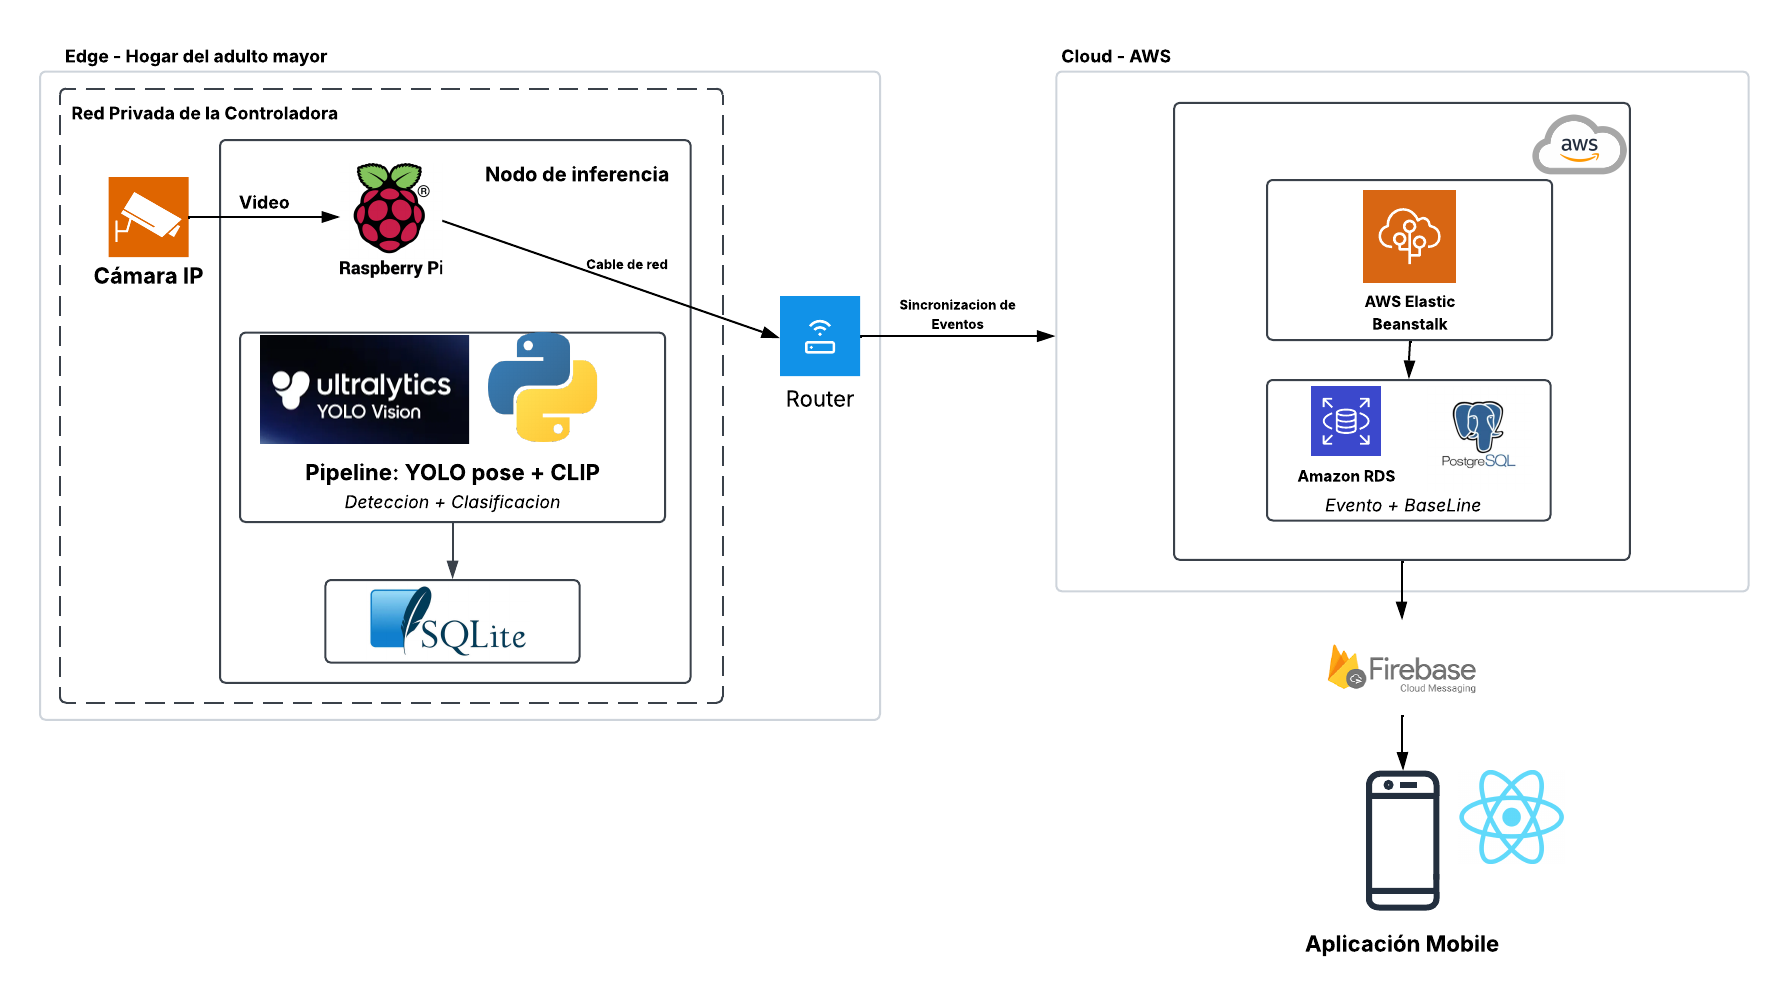
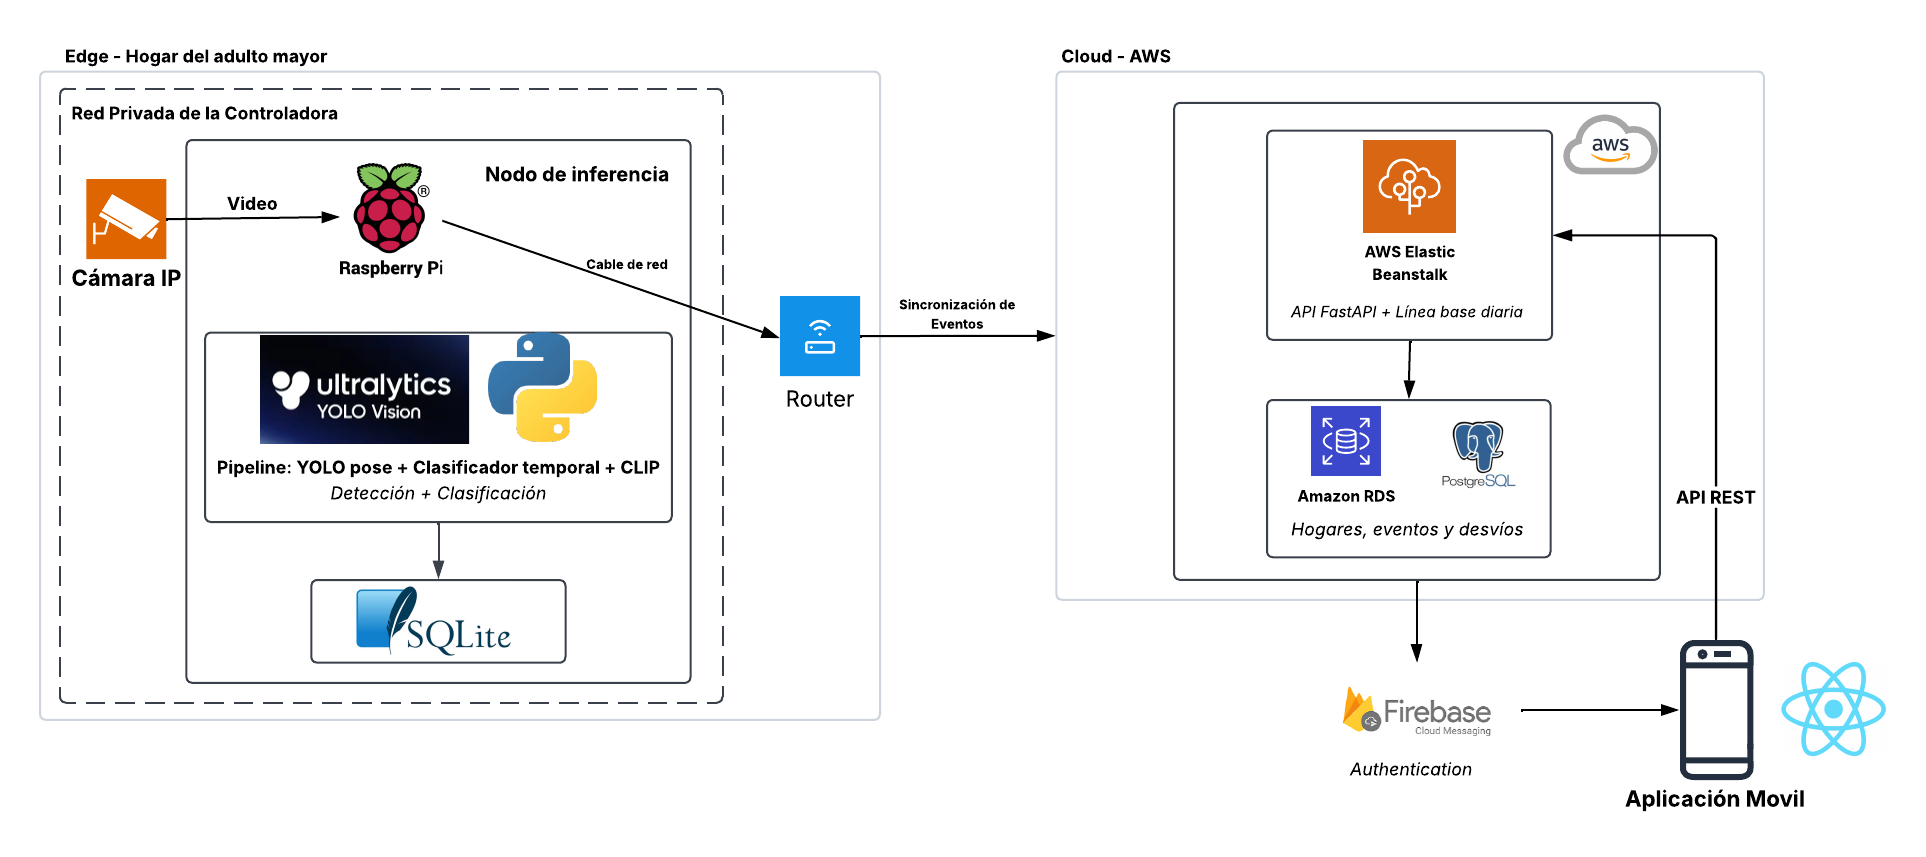
Actualiza los diagramas de componentes y de arquitectura
Componentes: suma fusion/, cloud/ y la app móvil, Baseline ejecutado por la
nube y Evaluation sin trazo punteado. Arquitectura: clasificador temporal en
el pipeline, API y línea base diaria en Elastic Beanstalk, flecha API REST
desde la app y Firebase Authentication. Ajusta los textos que describen ambas
figuras.

diff --git a/chapters/chapter03.tex b/chapters/chapter03.tex
@@ -236,32 +236,32 @@ Del lado de la nube, la construcción de la línea base de comportamiento (RF6) 
 \subsection{Diagrama de Componentes}
 \label{sec:diagrama_componentes}
 
-% TODO (Parte 6): actualizar la figura. baseline/ y evaluation/ ya no van punteados, y falta sumar fusion/ y cloud/.
-La Figura~\ref{fig:diagrama_componentes} documenta cómo está organizado el código fuente del sistema que corre sobre la Raspberry Pi, el hardware de borde del despliegue objetivo (Sección~\ref{sec:diagrama_arquitectura}).
-Ese despliegue incluye también el backend en la nube y la aplicación móvil, que ya están implementados y se describen junto con sus tecnologías en el Capítulo~\ref{chapter04}, por lo que el diagrama se concentra en los módulos del borde.
+La Figura~\ref{fig:diagrama_componentes} documenta cómo está organizado el código fuente del sistema, tanto los módulos que corren sobre la Raspberry Pi, el hardware de borde del despliegue objetivo (Sección~\ref{sec:diagrama_arquitectura}), como el backend en la nube y su relación con la aplicación móvil.
+Las tecnologías de cada parte se describen en el Capítulo~\ref{chapter04}.
 
-El módulo \texttt{runner/} es el orquestador central del sistema y el único que importa directamente el código de \texttt{vision/} y \texttt{vlm/}, a los que invoca por cada cámara activa y de los que recibe el resultado de la detección correspondiente.
+El módulo \texttt{runner/} es el orquestador central del sistema y el único que importa directamente el código de \texttt{vision/}, \texttt{vlm/} y \texttt{fusion/}, a los que invoca por cada cámara activa y de los que recibe el resultado de la detección correspondiente.
 Por su parte, \texttt{vision/} implementa una heurística de dos fases sobre descriptores de pose, sin una red neuronal propia más allá de la estimación de pose de base, para detectar caídas e inmovilidad prolongada, en línea con RF1, RF3 y RF4.
-De manera similar, \texttt{vlm/} clasifica la actividad de la persona monitoreada mediante CLIP exportado a formato ONNX, lo que le permite ejecutarse sin depender de PyTorch en tiempo de inferencia, cumpliendo con RF2.
-Sin embargo, y a diferencia de lo que podría suponerse a partir de sus nombres, ni \texttt{vision/} ni \texttt{vlm/} escriben eventos por sí mismos, ya que es \texttt{runner/} quien, luego de recibir el resultado de cada uno, registra el evento correspondiente en \texttt{events/}, respetando el formato exigido por RF5.
+De manera similar, \texttt{vlm/} clasifica la actividad de la persona monitoreada mediante CLIP exportado a formato ONNX, lo que le permite ejecutarse sin depender de PyTorch en tiempo de inferencia.
+\texttt{fusion/} combina esa clasificación con un clasificador temporal sobre la secuencia de keypoints, de modo que entre ambos cumplen con RF2 (Sección~\ref{sec:evolucion_diseno}).
+Sin embargo, y a diferencia de lo que podría suponerse a partir de sus nombres, ninguno de estos módulos escribe eventos por sí mismo, ya que es \texttt{runner/} quien, luego de recibir el resultado de cada uno, registra el evento correspondiente en \texttt{events/}, respetando el formato exigido por RF5.
 En ese esquema, \texttt{events/} funciona como el único punto de acuerdo formal entre los módulos del sistema, mediante el esquema compartido \texttt{MonitoringEvent} y \texttt{EventType}, que identifica el tipo de cada evento, como una caída, un período de inmovilidad, una actividad o un desvío de la rutina, junto con un almacenamiento local en SQLite, importado como una librería de Python dentro del mismo proceso, desde donde los eventos se envían luego a la nube (Sección~\ref{sec:backend_nube}).
 Esta decisión mantiene a cada módulo desacoplado de la implementación interna de los demás, dado que alcanza con que todos respeten el esquema de eventos para poder desarrollarse y probarse de forma independiente.
 
 \texttt{dashboard/} cumple un doble rol operativo, ya que por un lado controla a \texttt{runner/}, iniciándolo y deteniéndolo como subproceso y gestionando la configuración de cámaras en \texttt{cameras.yaml}, y por otro lee los eventos almacenados en \texttt{events/} para mostrarlos en un panel de operación local. La configuración habitual del hogar se hace desde la aplicación móvil, por lo que el panel queda como una herramienta opcional. La familia puede entrar desde un navegador conectado a la red de la casa si quiere ver el video en vivo o controlar el monitoreo, y el soporte técnico lo usa de forma presencial cuando necesita resolver un problema puntual en el domicilio.
 Este panel es una herramienta de desarrollo y operación que corre directamente sobre la Raspberry Pi, distinta de la API del backend en la nube que consume la aplicación móvil (Sección~\ref{sec:backend_nube}).
 
-\texttt{baseline/} lee los eventos registrados y construye a partir de ellos la línea base de comportamiento mediante clustering dinámico, correspondiente a RF6.
-Corre en la nube, en AWS, una vez por día, sobre el historial sincronizado de cada hogar.
+\texttt{cloud/} es el backend en la nube, que recibe los eventos que envía la controladora y atiende a la aplicación móvil a través de su API REST (Sección~\ref{sec:api_backend}).
+Una vez por día, \texttt{cloud/} ejecuta \texttt{baseline/}, que construye a partir del historial de eventos de cada hogar la línea base de comportamiento mediante clustering dinámico, correspondiente a RF6.
 \texttt{evaluation/}, en cambio, no consume eventos de la misma manera, sino que toma el video original de la carpeta \texttt{videos/} junto con los eventos detectados sobre ese video para generar un video anotado que permite la inspección visual de las detecciones.
 
-El diagrama incluye además las dos fuentes de datos externas del sistema en esta fase, \texttt{cameras.yaml}, que configura qué cámaras o streams procesa \texttt{runner/}, y la carpeta \texttt{videos/}, que contiene el dataset utilizado en modo offline.
+El diagrama incluye además las dos fuentes de datos externas del sistema, \texttt{cameras.yaml}, que configura qué cámaras o streams procesa \texttt{runner/}, y la carpeta \texttt{videos/}, que contiene el dataset utilizado en modo offline.
 Sobre ese dataset existe además un modo de ejecución batch, en el que \texttt{vision/} y \texttt{vlm/} corren de forma independiente sin pasar por \texttt{runner/}, que es el que efectivamente se utilizó para calibrar y validar la detección de caídas y la clasificación de actividad hasta el momento, un proceso de ajuste iterativo que continúa a medida que se incorporan nuevos datasets.
 Ese modo batch no se representa como un componente aparte en la Figura~\ref{fig:diagrama_componentes} para no saturar el diagrama, dado que reutiliza el mismo código de \texttt{vision/} y \texttt{vlm/} ya documentado y solo cambia la forma en que se lo invoca.
 
 \begin{figure}[H]
     \centering
     \includegraphics[width=0.94\textwidth]{Imagenes/Diagrama_componentes.png}
-    \caption[Diagrama de componentes del sistema.]{Diagrama de componentes del sistema en su fase de desarrollo local. Elaboración propia.}
+    \caption[Diagrama de componentes del sistema.]{Diagrama de componentes del sistema. Elaboración propia.}
     \label{fig:diagrama_componentes}
 \end{figure}
 \FloatBarrier
@@ -275,9 +275,9 @@ Los diagramas de la sección anterior describen el comportamiento del sistema de
 \subsection{Diagrama de Arquitectura}
 \label{sec:diagrama_arquitectura}
 
-A diferencia del diagrama de componentes de la Sección~\ref{sec:diagrama_componentes}, que documentó la organización del código que corre en el borde, la Figura~\ref{fig:arquitectura} muestra el despliegue físico del sistema, desde la cámara IP hasta la aplicación móvil. Del lado del borde, la Raspberry Pi aloja el nodo de inferencia que ejecuta el pipeline de YOLO para estimación de pose y CLIP para clasificación de actividades sobre el video capturado por la cámara, coherente con RNF5, que exige que ambos módulos corran sobre el mismo hardware embebido y sin GPU. Las cámaras no se conectan a la red de la casa, sino a una red wifi privada que arma la propia controladora y que no tiene salida a internet, mientras que la controladora es la única que sale a internet, mediante un cable de red conectado al router del hogar. El video nunca sale de ese nodo, cumpliendo con RNF1, y esa separación de redes lo refuerza, porque las cámaras no tienen forma de enviar video hacia afuera aunque estuvieran configuradas para hacerlo. Lo único que cruza hacia la nube son los eventos generados, nunca imágenes. Esos eventos se persisten localmente en SQLite antes de sincronizarse, la implementación concreta del requisito de continuidad ante cortes de conexión que exige RNF6, y esa misma base es la que se vuelca hacia la nube una vez que la conexión se restablece, según RNF7.
+A diferencia del diagrama de componentes de la Sección~\ref{sec:diagrama_componentes}, que documentó la organización del código, la Figura~\ref{fig:arquitectura} muestra el despliegue físico del sistema, desde la cámara IP hasta la aplicación móvil. Del lado del borde, la Raspberry Pi aloja el nodo de inferencia que ejecuta el pipeline de YOLO para estimación de pose, un clasificador temporal sobre el movimiento y CLIP para clasificación de actividades sobre el video capturado por la cámara, coherente con RNF5, que exige que la detección y la clasificación corran sobre el mismo hardware embebido y sin GPU. Las cámaras no se conectan a la red de la casa, sino a una red wifi privada que arma la propia controladora y que no tiene salida a internet, mientras que la controladora es la única que sale a internet, mediante un cable de red conectado al router del hogar. El video nunca sale de ese nodo, cumpliendo con RNF1, y esa separación de redes lo refuerza, porque las cámaras no tienen forma de enviar video hacia afuera aunque estuvieran configuradas para hacerlo. Lo único que cruza hacia la nube son los eventos generados, nunca imágenes. Esos eventos se persisten localmente en SQLite antes de sincronizarse, la implementación concreta del requisito de continuidad ante cortes de conexión que exige RNF6, y esa misma base es la que se vuelca hacia la nube una vez que la conexión se restablece, según RNF7.
 
-Del lado de la nube, AWS Elastic Beanstalk aloja la aplicación que recibe los eventos sincronizados y los persiste en Amazon RDS sobre PostgreSQL, junto con la línea base de comportamiento construida a partir de ellos (RF6). Desde ahí, Firebase Cloud Messaging es el servicio que entrega las notificaciones push a la aplicación móvil, desarrollada en React Native, cerrando el circuito que exige RF8 entre la detección de un evento crítico y el aviso al responsable a cargo.
+Del lado de la nube, AWS Elastic Beanstalk aloja la API que recibe los eventos sincronizados y los persiste en Amazon RDS sobre PostgreSQL, y que una vez por día calcula sobre ellos la línea base de comportamiento (RF6), cuyos desvíos se guardan como eventos. La aplicación móvil, desarrollada en React Native, consulta esa API para mostrar los eventos, las alertas y los reportes, e inicia sesión a través de Firebase Authentication. Firebase Cloud Messaging, por su parte, es el servicio que entrega las notificaciones push a la aplicación, cerrando el circuito que exige RF8 entre la detección de un evento crítico y el aviso al responsable a cargo.
 
 \begin{figure}[H]
     \centering
